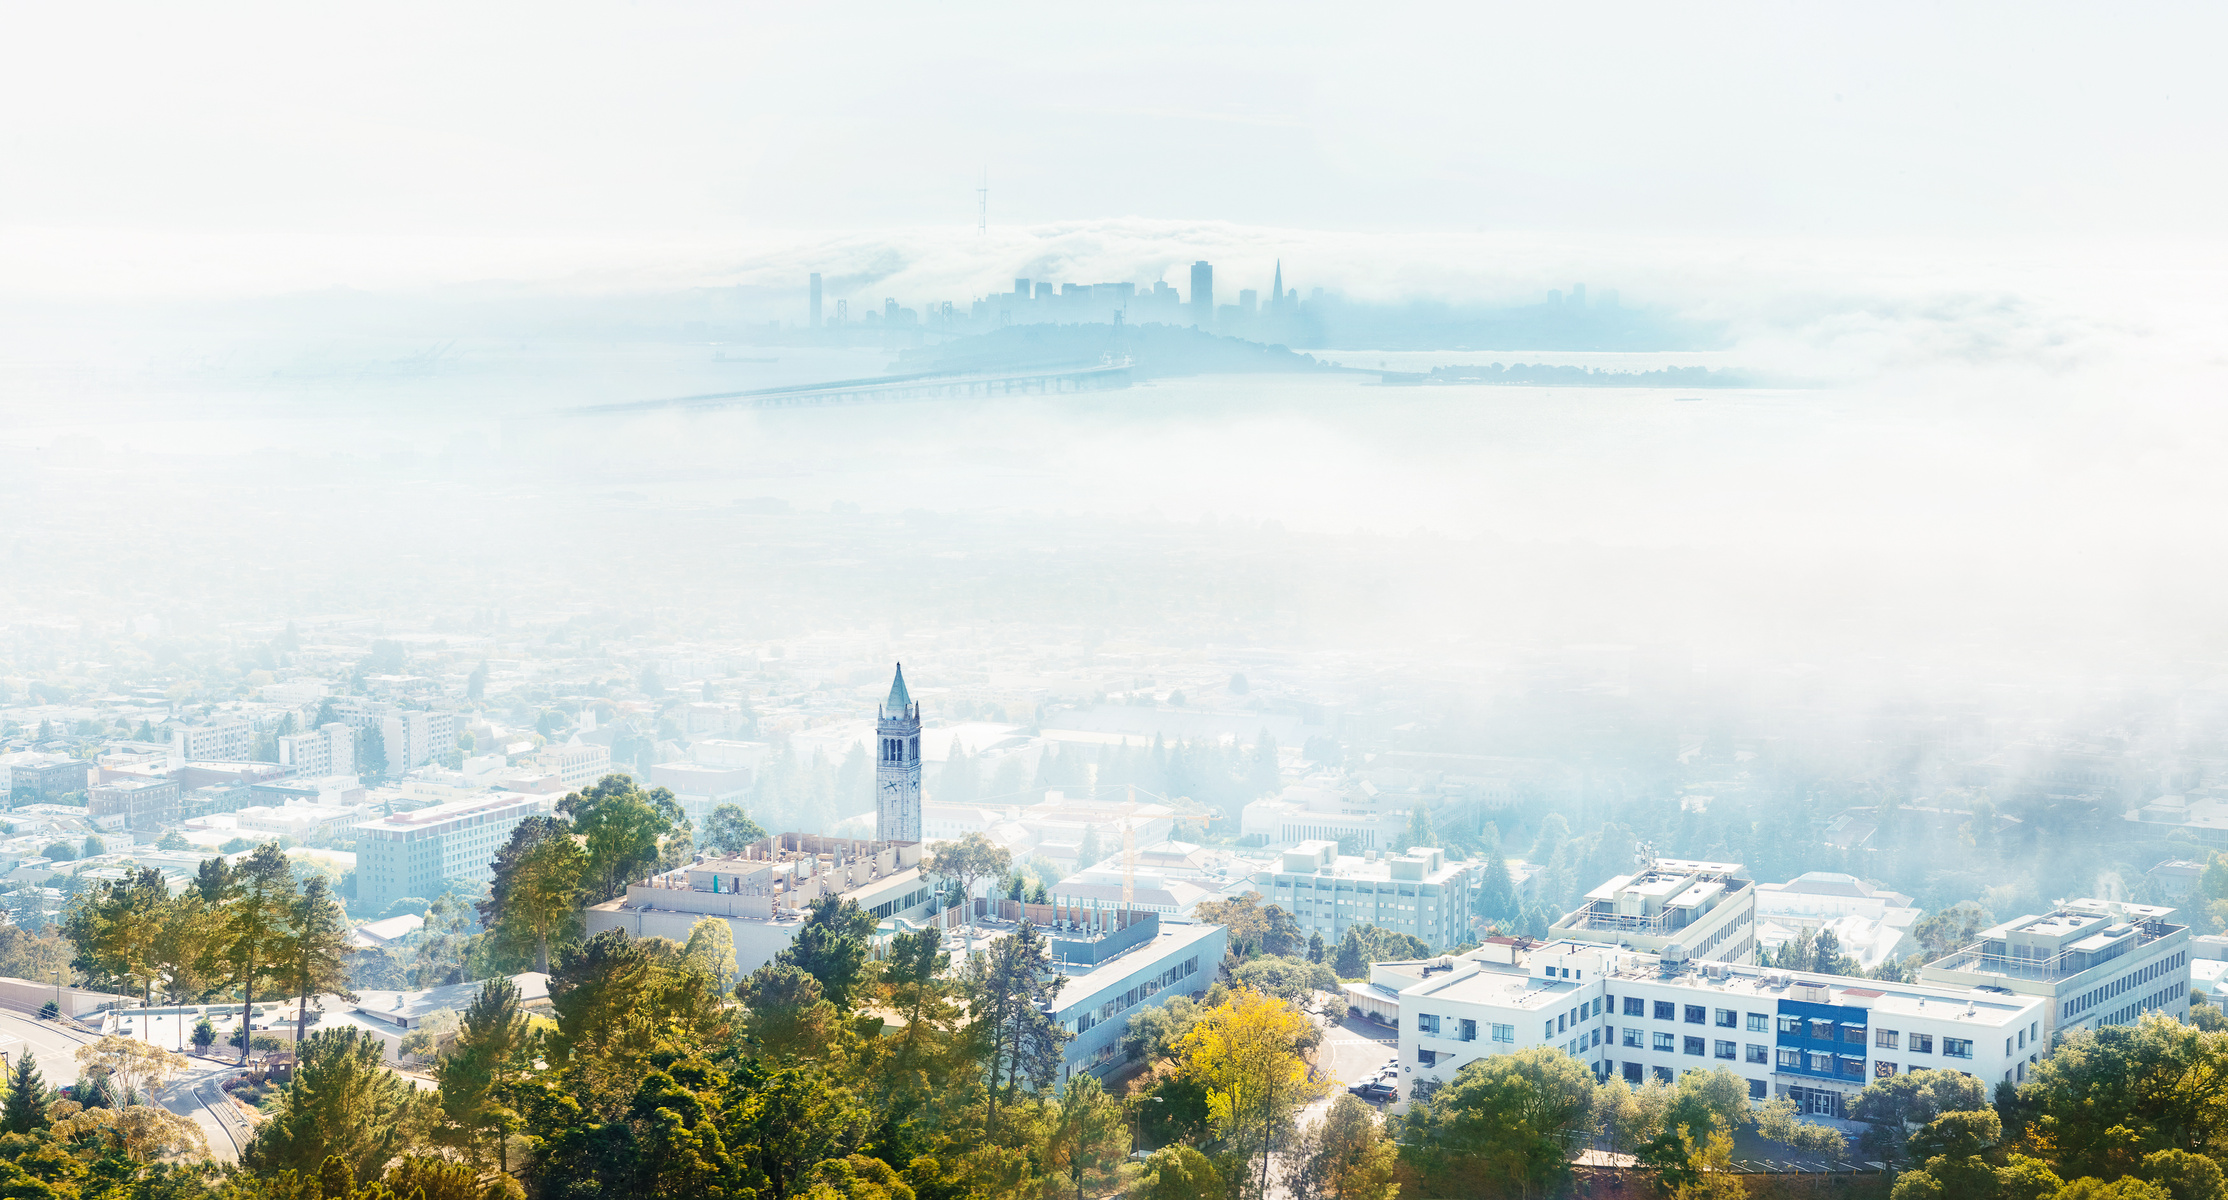
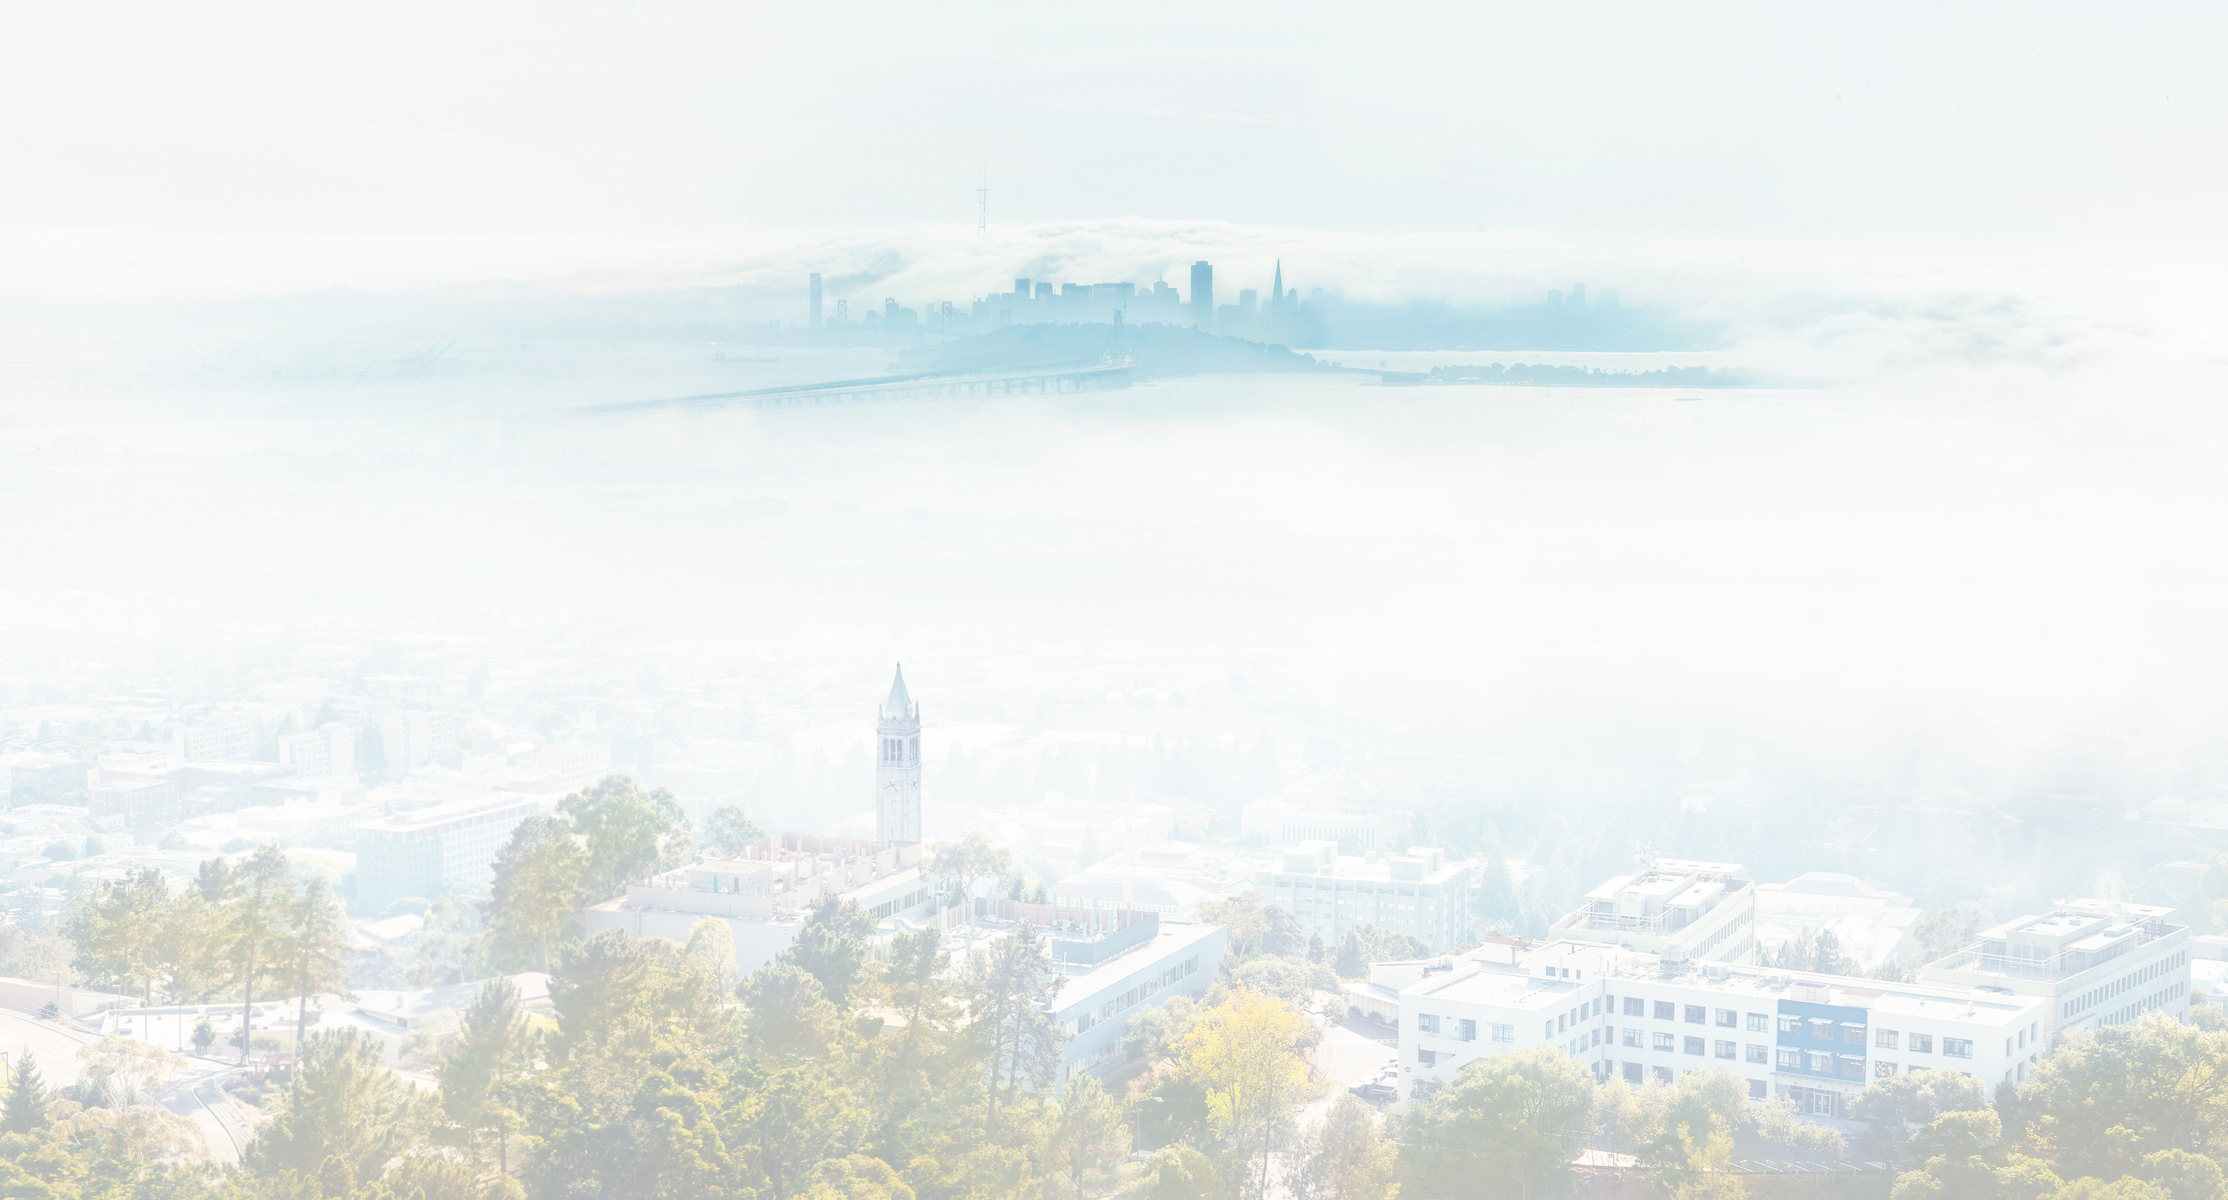
Background for sponsors, clear up pure storage

diff --git a/index.html b/index.html
@@ -126,14 +126,14 @@
     font-weight: 300;
   }
   .circle {
-      width:100px;
-      height:100px;
-      border-radius:50px;
-      font-size:20px;
-      color:#fff;
-      line-height:100px;
-      text-align:center;
-      background:#79BCD1;
+    width:100px;
+    height:100px;
+    border-radius:50px;
+    font-size:20px;
+    color:#fff;
+    line-height:100px;
+    text-align:center;
+    background:#79BCD1;
   }
   #schedule {
     margin-top: 10px;
@@ -175,13 +175,14 @@
   /* FAQ */
   #faq {
     background: #bddee7;
+    padding: 50px;
   }
 
   #faqTitle {
     font-family: "Open Sans", sans-serif;
     font-weight: 300;
     font-size: 40px;
-    margin: 50px auto 30px 50px;
+    margin: 25px;
   }
 
   .faqItem {
@@ -189,13 +190,17 @@
     font-weight: 300;
     padding-left: 10%;
     padding-right: 10%;
-    margin: 40px;
+    margin: 25px;
     text-align: left;
   }
 
   /* Sponsors */
   #sponsors {
-    background: #FFF;
+    background: url("assets/Berkeley.jpg") no-repeat;
+    background-size: auto auto;
+    background-position: left;
+    background-attachment: fixed;
+    padding: 50px 150px 50px 150px;
   }
   #sponsorsTitle {
     font-family: "Open Sans", sans-serif;
@@ -203,6 +208,7 @@
     font-weight: 300;
   }
   </style>
+ 
 </head>
 <body>
 
